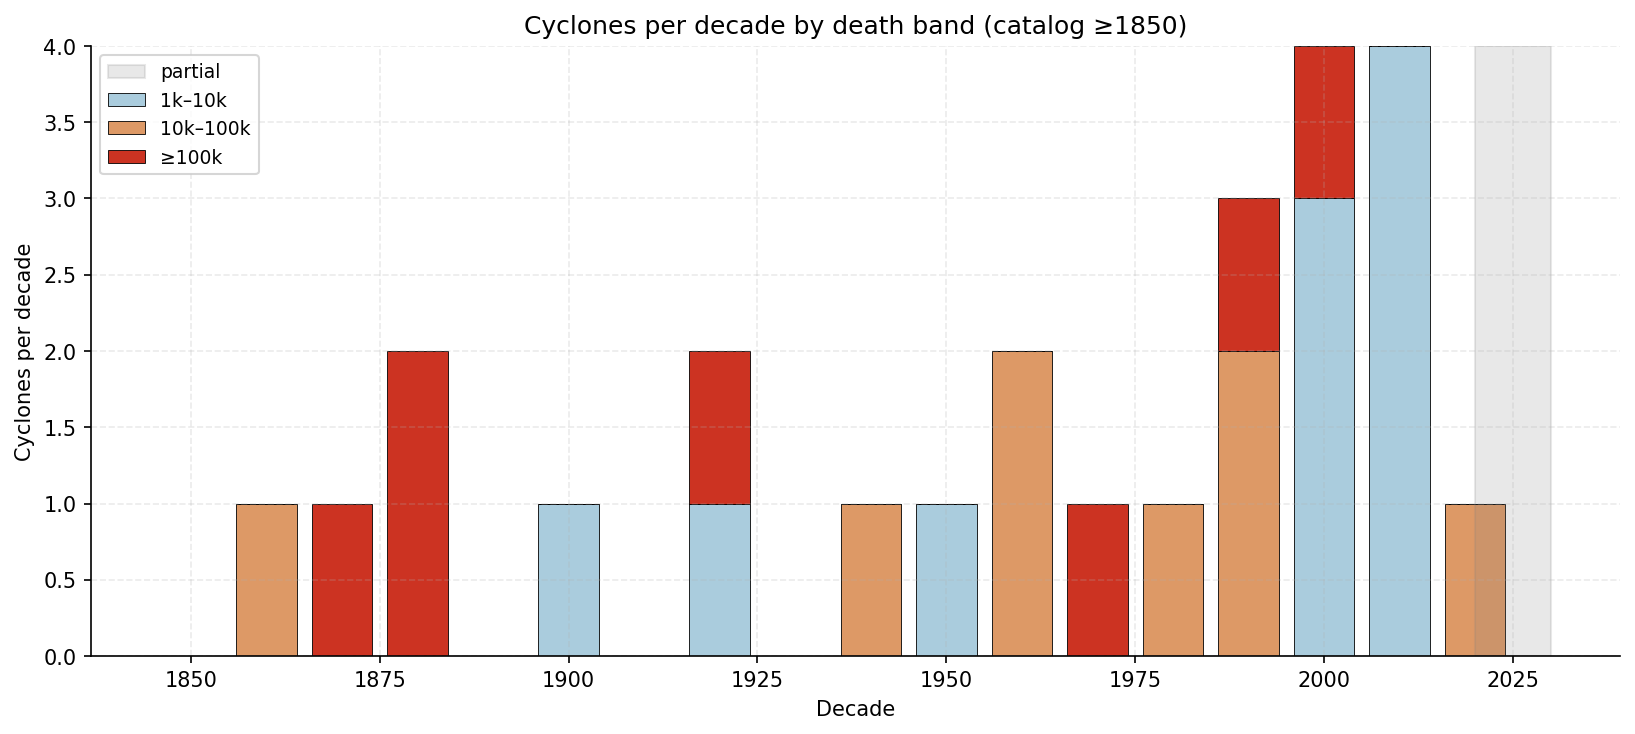
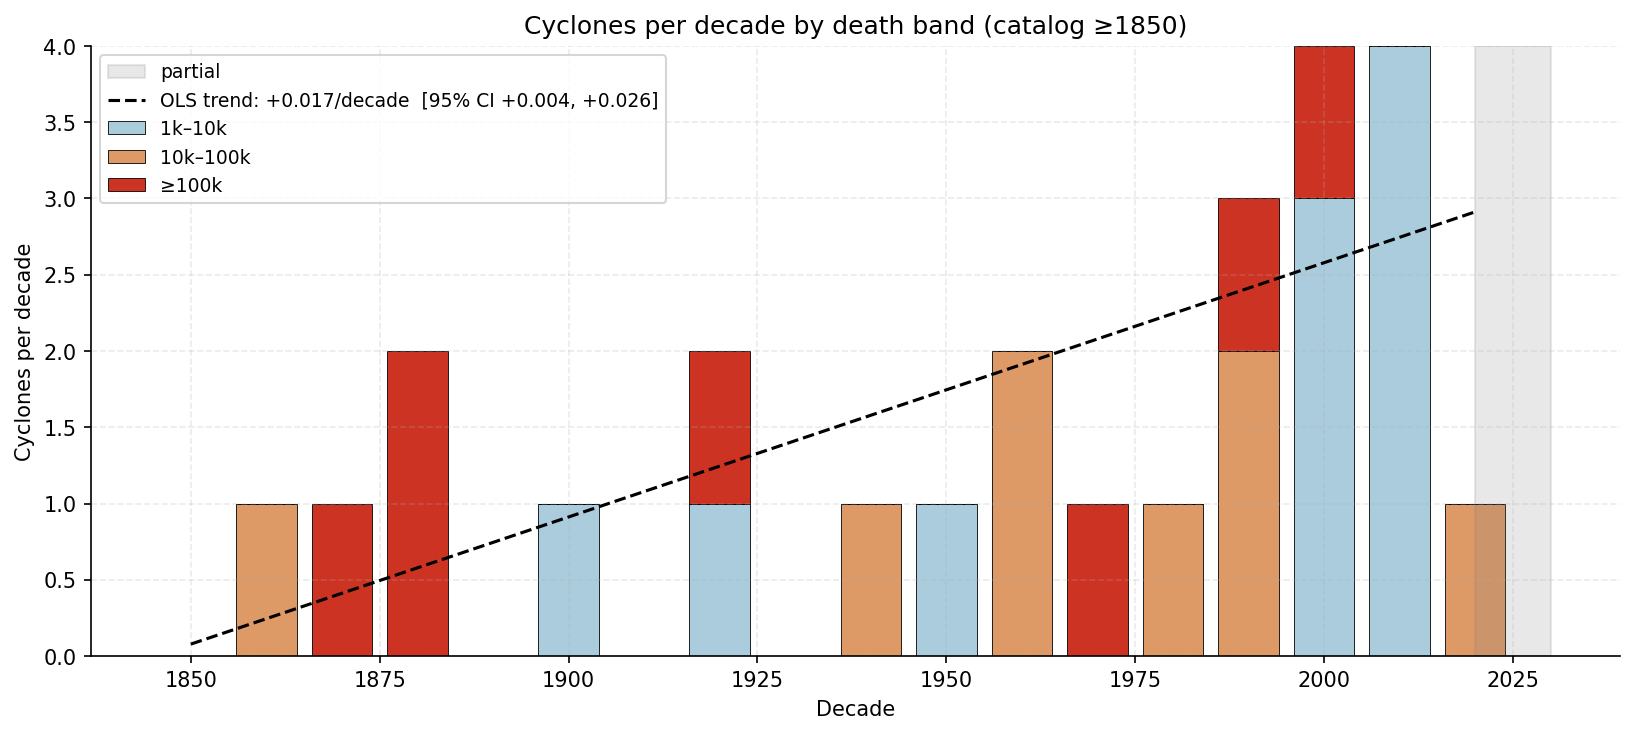
Add trend line + bootstrap CI to plot_02

diff --git a/make_plots.py b/make_plots.py
@@ -82,6 +82,19 @@ def plot_02_decadal_counts_by_band(df: pd.DataFrame):
         bottom += counts
     ax.axvspan(PARTIAL_DECADE_START, PARTIAL_DECADE_START + 10,
                 color="grey", alpha=0.18, label="partial")
+    totals = np.array(bottom)
+    full_mask = decades < PARTIAL_DECADE_START
+    x_fit = decades[full_mask]; y_fit = totals[full_mask]
+    slope, intercept = np.polyfit(x_fit, y_fit, 1)
+    rng = np.random.default_rng(42)
+    boot = []
+    for _ in range(2000):
+        idx = rng.integers(0, len(x_fit), len(x_fit))
+        s, _ = np.polyfit(x_fit[idx], y_fit[idx], 1)
+        boot.append(s)
+    ci_lo, ci_hi = np.percentile(boot, [2.5, 97.5])
+    ax.plot(decades, slope * decades + intercept, "k--", linewidth=1.5,
+              label=f"OLS trend: {slope:+.3f}/decade  [95% CI {ci_lo:+.3f}, {ci_hi:+.3f}]")
     ax.set_xlabel("Decade")
     ax.set_ylabel("Cyclones per decade")
     ax.set_title(f"Cyclones per decade by death band (catalog ≥{CATALOG_START})")
@@ -89,6 +102,7 @@ def plot_02_decadal_counts_by_band(df: pd.DataFrame):
     plt.tight_layout()
     plt.savefig(PLOTS / "02_decadal_counts_by_band.png")
     plt.close()
+    return slope, ci_lo, ci_hi
 
 
 def plot_03_great_cyclone_timing(df: pd.DataFrame):
@@ -164,7 +178,8 @@ def main():
     print(f"Loaded {len(df)} cyclones; {int(df['year'].min())}–{int(df['year'].max())}")
     print(f"≥10,000 deaths: {(df['deaths_estimate'] >= GREAT_CYCLONE_THRESHOLD).sum()}")
     plot_01_deaths_timeline(df)
-    plot_02_decadal_counts_by_band(df)
+    slope, lo, hi = plot_02_decadal_counts_by_band(df)
+    print(f"Decadal trend ({CATALOG_START}+): {slope:+.3f}/decade [95% CI {lo:+.3f}, {hi:+.3f}]")
     plot_03_great_cyclone_timing(df)
     plot_04_magnitude_distribution(df)
     print(f"Wrote 4 plots to {PLOTS}/")
